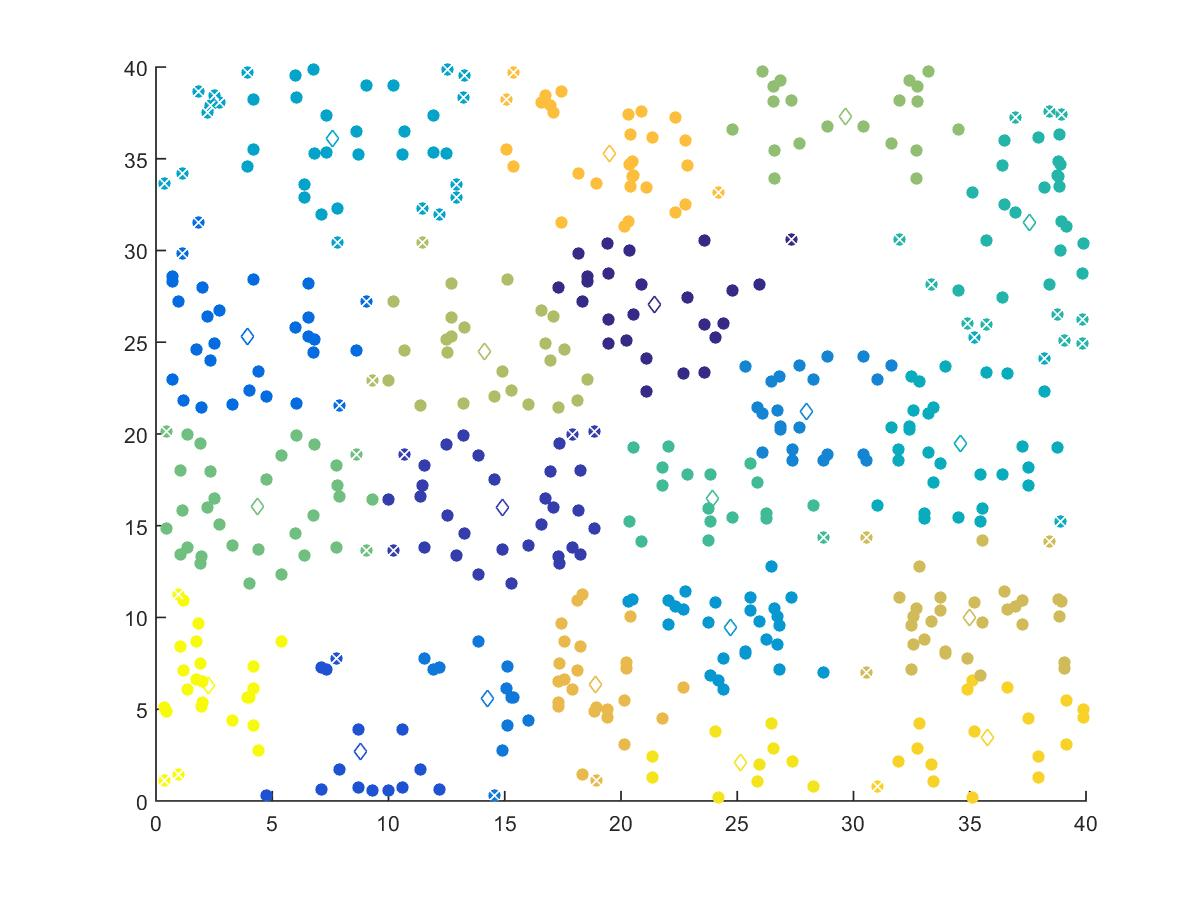
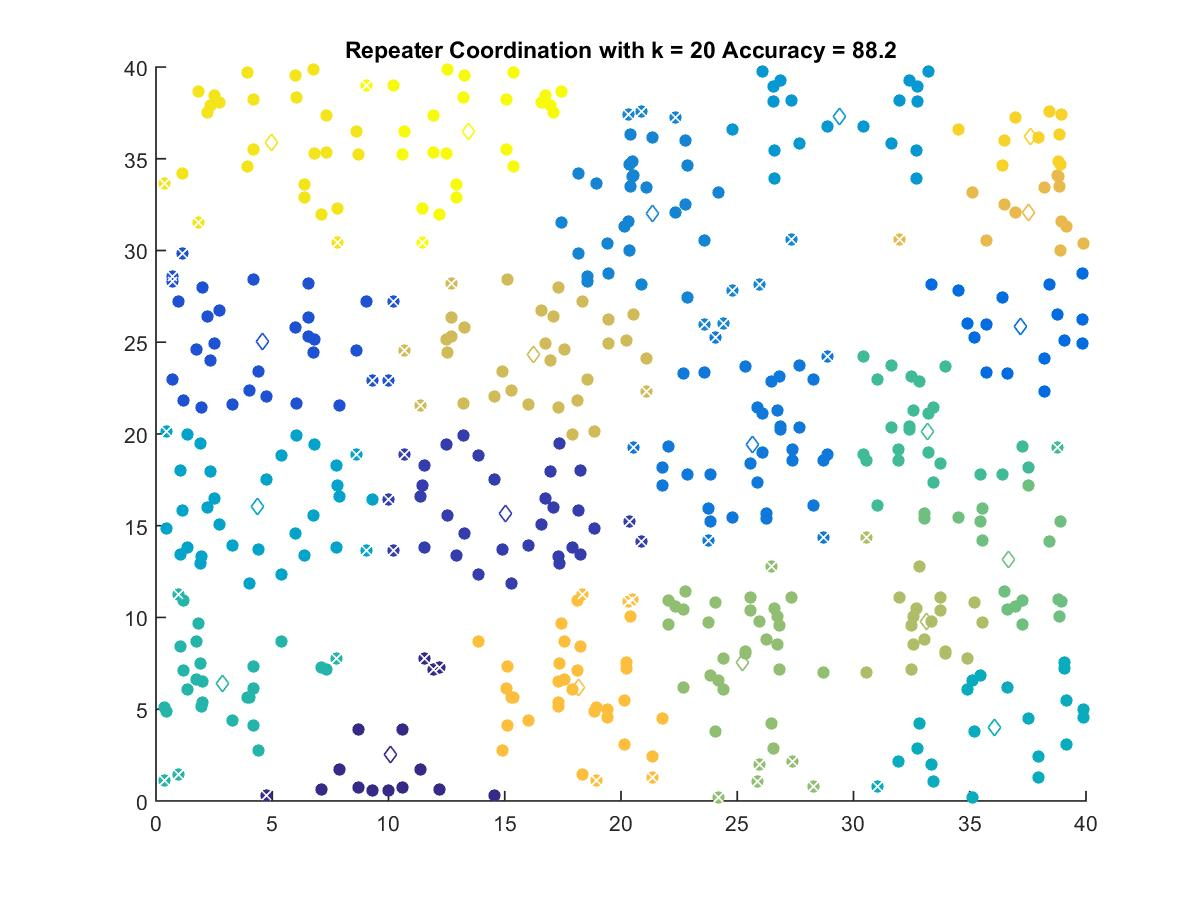
'titleadd'

diff --git a/main.m b/main.m
@@ -8,11 +8,16 @@ dataSet = generatePeople();
 k = 20;
 startCentroids = generateCentroids(dataSet,k);
 % visualize Centroids
+figure
 scatter(startCentroids(:,1),startCentroids(:,2));
+title('Start Centroids');
+
+
 
 %% do kMeans
 [finalCentroids , result ] = kMeans(dataSet,startCentroids);
 % visualize
+figure 
 scatter(finalCentroids(:,1),finalCentroids(:,2),[],[1:k],'d');
 hold on;
 scatter(result(:,1), result(:,2),[],result(:,3),'filled');
@@ -23,7 +28,9 @@ filterResult = filterDistance(result,finalCentroids,5);
 notCovered = filterResult(:,3) == 9999;
 datNotCovered = filterResult(notCovered,1:3);
 hold on;
-visualisasi = scatter(datNotCovered(:,1), datNotCovered(:,2),[],'white', 'x');
+scatter(datNotCovered(:,1), datNotCovered(:,2),[],'white', 'x');
+%%hold on;
+%%viscircles(finalCentroids,5);
 
 %% accuracy
 accuracy = accuracyCovered(filterResult);
@@ -36,5 +43,6 @@ filename = ['Result/centroids_acc=' int2str(accuracy) '_k=' int2str(k) '.csv'];
 csvwrite(filename,saveData);
 
 %% save figure as picture
+visualisasi = title(['Repeater Coordination with k = ' num2str(k) ' Accuracy = '  num2str(accuracy)]);
 filenamePic = ['Result/visualisasi_acc=' int2str(accuracy) '_k=' int2str(k) '.jpg'];
 saveas(visualisasi,filenamePic);

diff --git a/kMeans.m b/kMeans.m
@@ -39,8 +39,10 @@ listSSE             = [];
             % find same label in result
             condition = result(:, 3) == i;
             % calculate mean every cluster
-            finalCentroids(i,:) = nanmean(result(condition,1:2));
+            finalCentroids(i,:) = mean(result(condition,1:2),'omitnan');
             disp(finalCentroids)
+            % dbstop if naninf
+
         end
         
         % calculate SSE
@@ -56,5 +58,6 @@ listSSE             = [];
 
     end
     %plot(listSSE)
+
 end
 

diff --git a/generatePeople.m b/generatePeople.m
@@ -26,5 +26,7 @@ randomY = myLCG(997,79,78,36,1000);
 inRangeY = abs(randomY*40);
 
 dataSet = [inRangeX inRangeY];
+figure
 scatter(dataSet(:,1),dataSet(:,2)); % visualize data
+title('People Distribution');
 end
